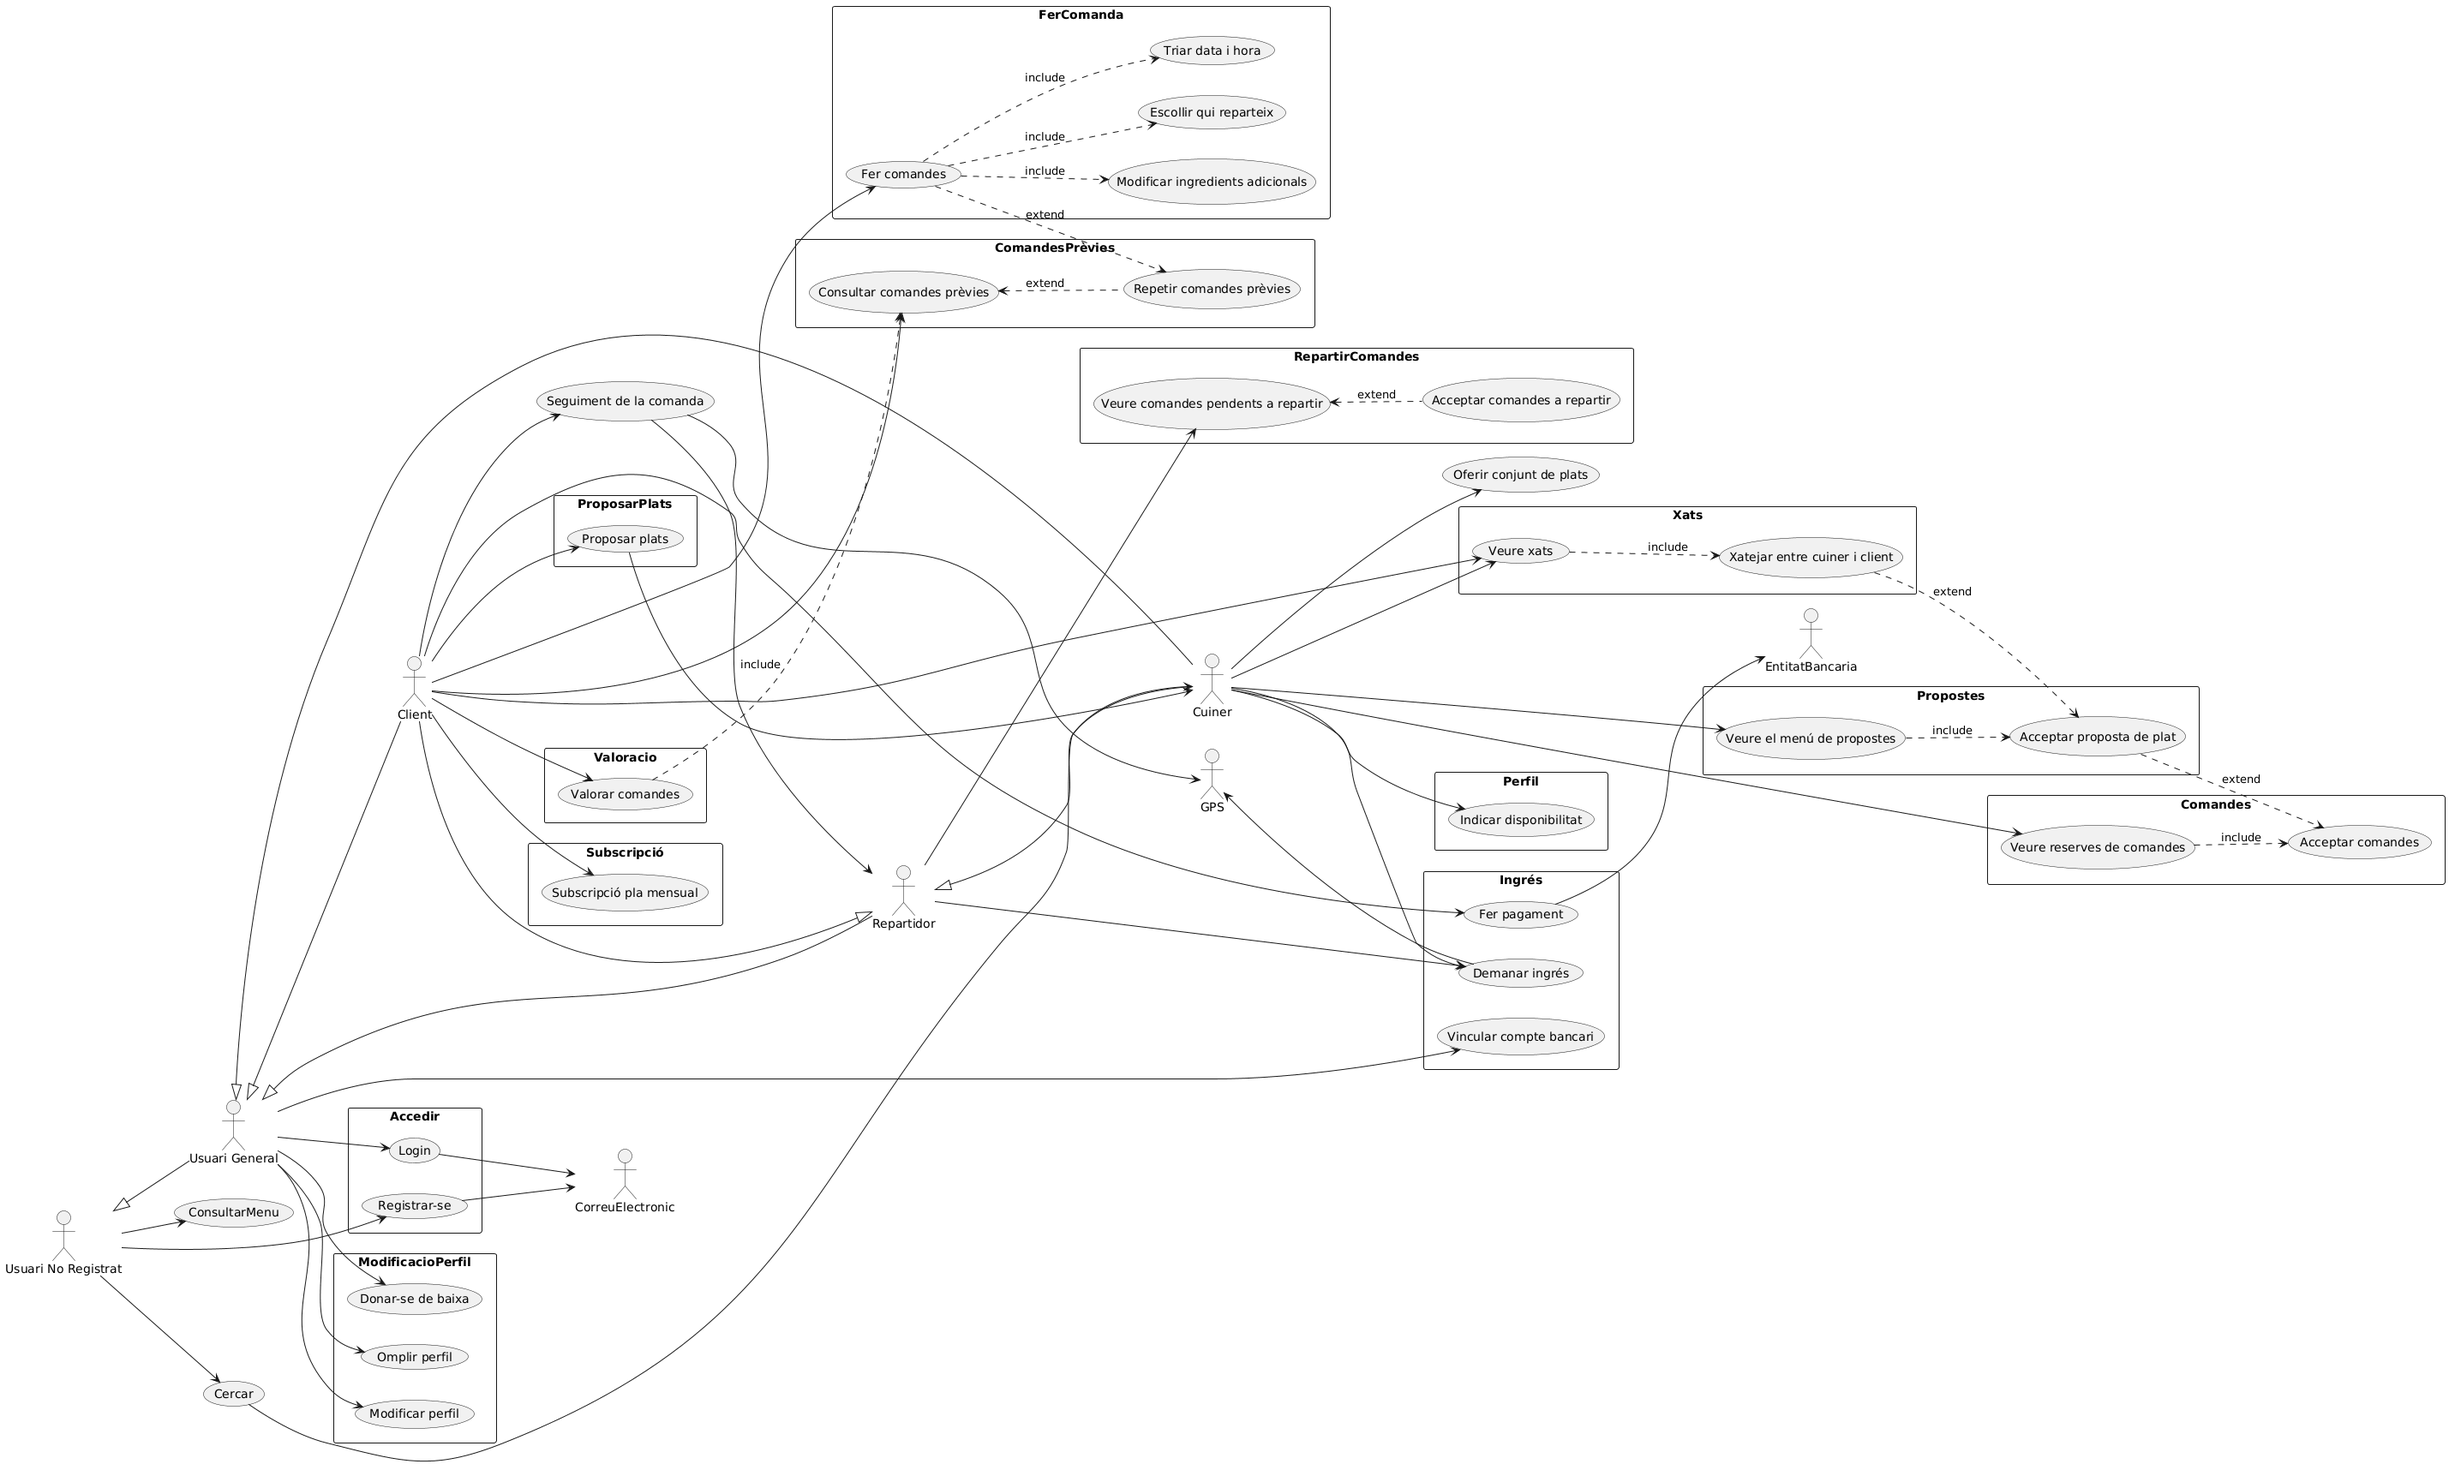
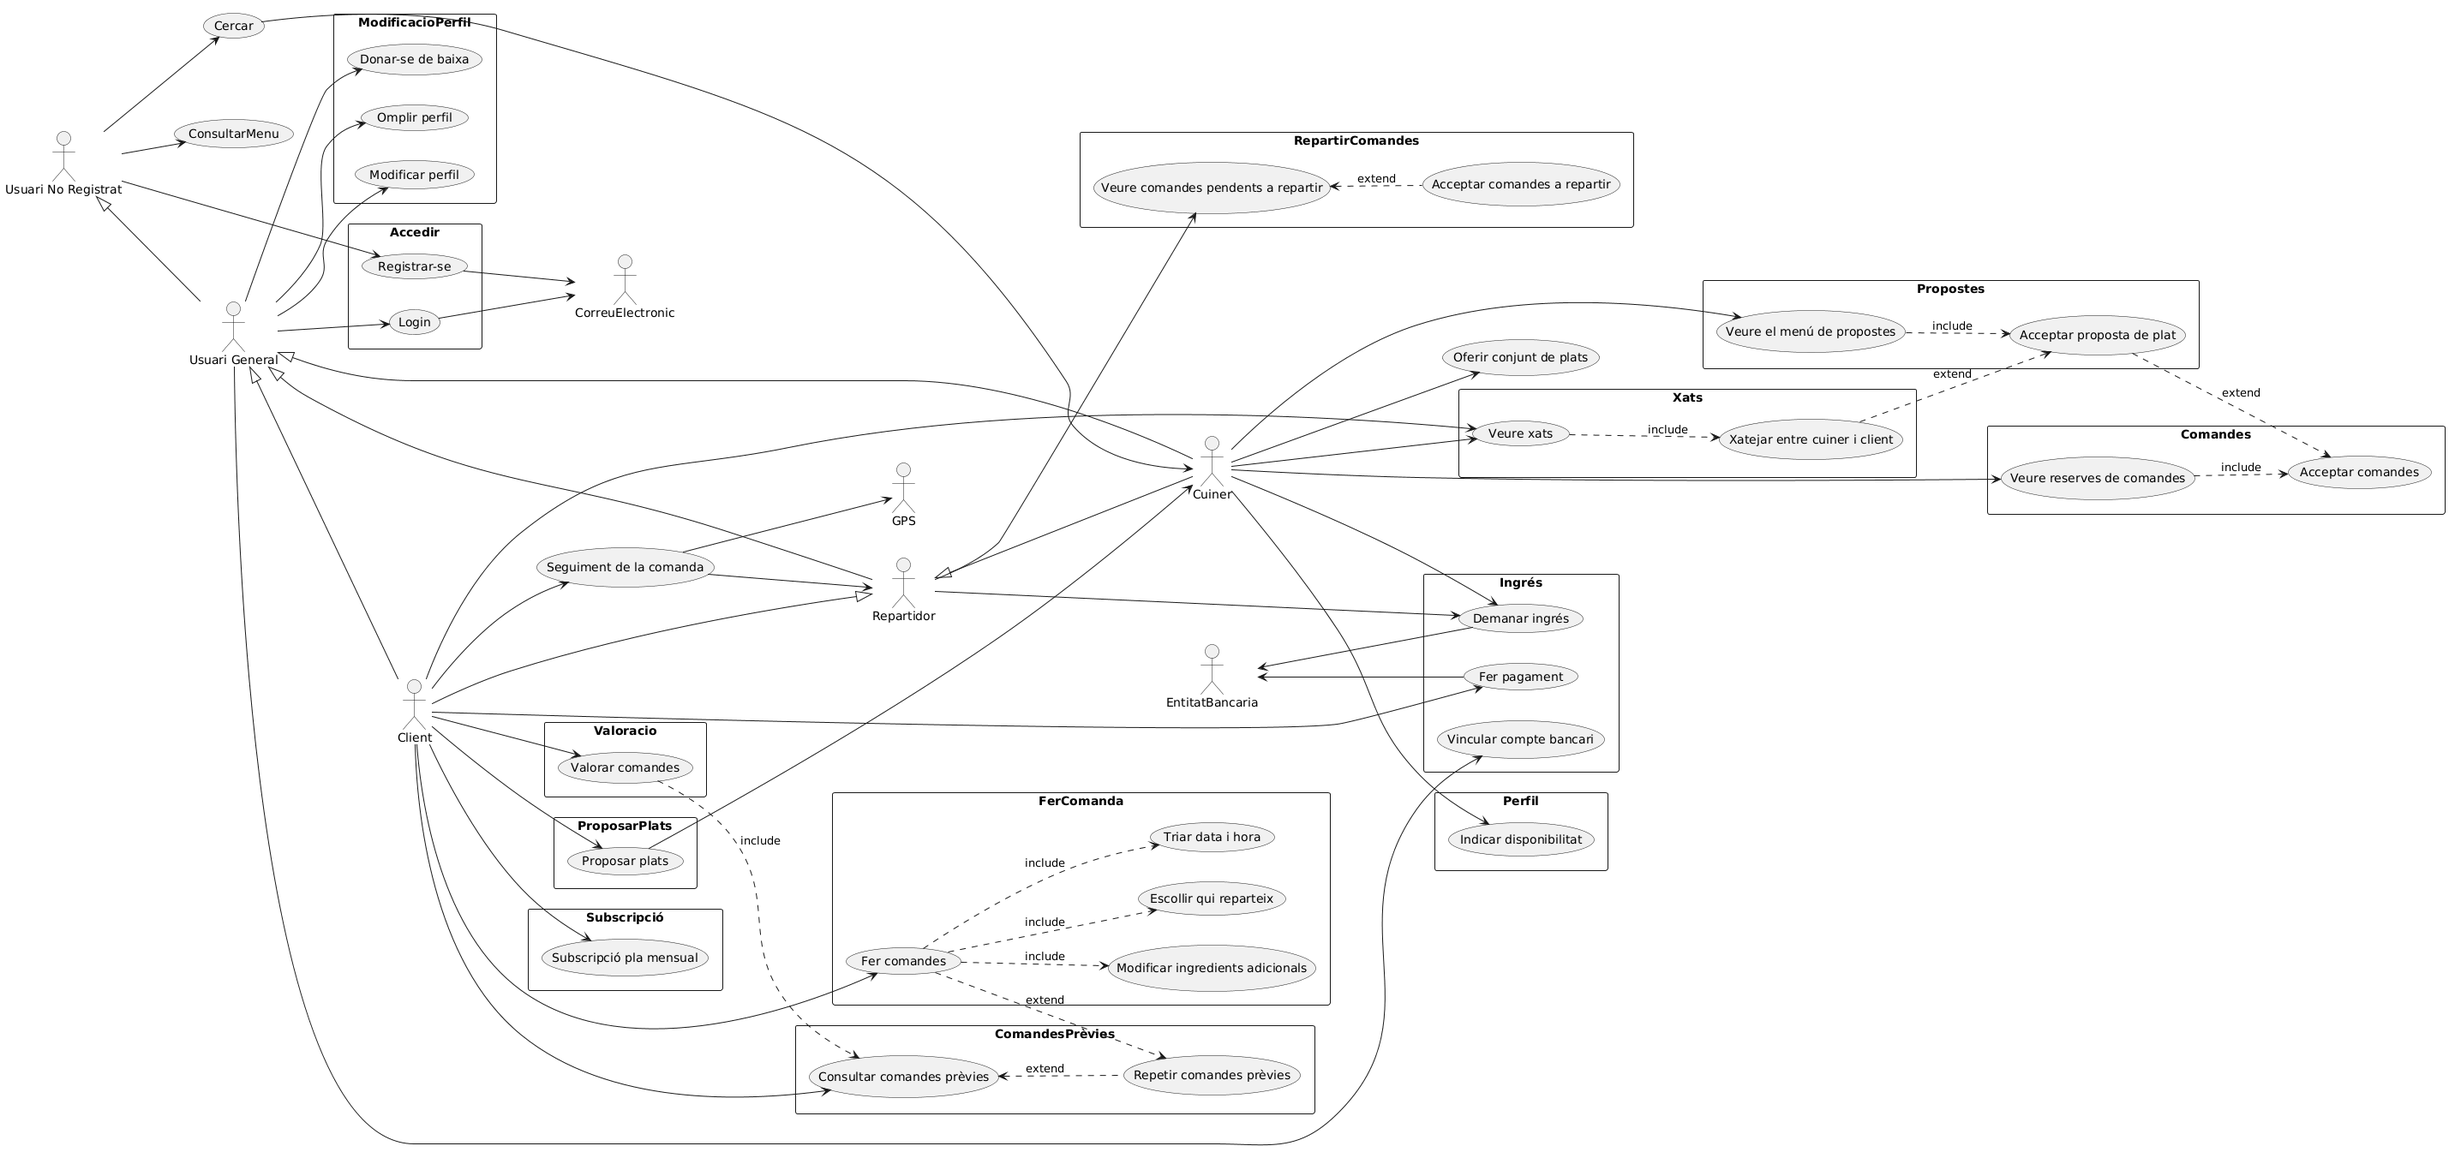
arregl2

diff --git a/documents/Diagrames/Cas d'ús/UML GENERAL/uml_general_FINAL.md b/documents/Diagrames/Cas d'ús/UML GENERAL/uml_general_FINAL.md
@@ -98,7 +98,7 @@ rectangle Ingrés {
 
 Repartidor --> Demin
 Cuiner --> Demin
-GPS <-- Demin
+EntitatBancaria <-- Demin
 
 
 rectangle RepartirComandes {
